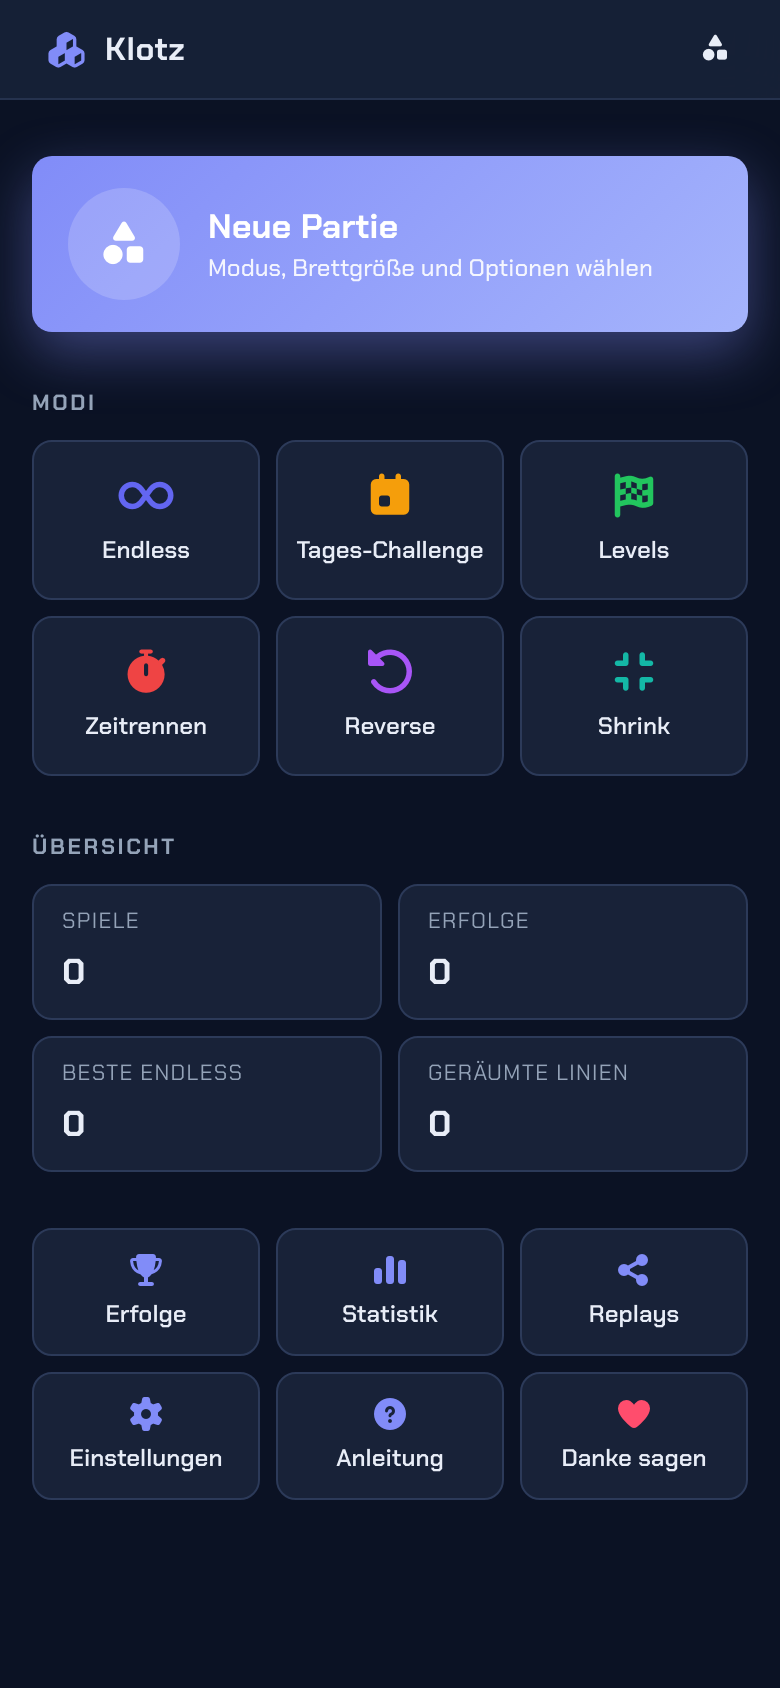
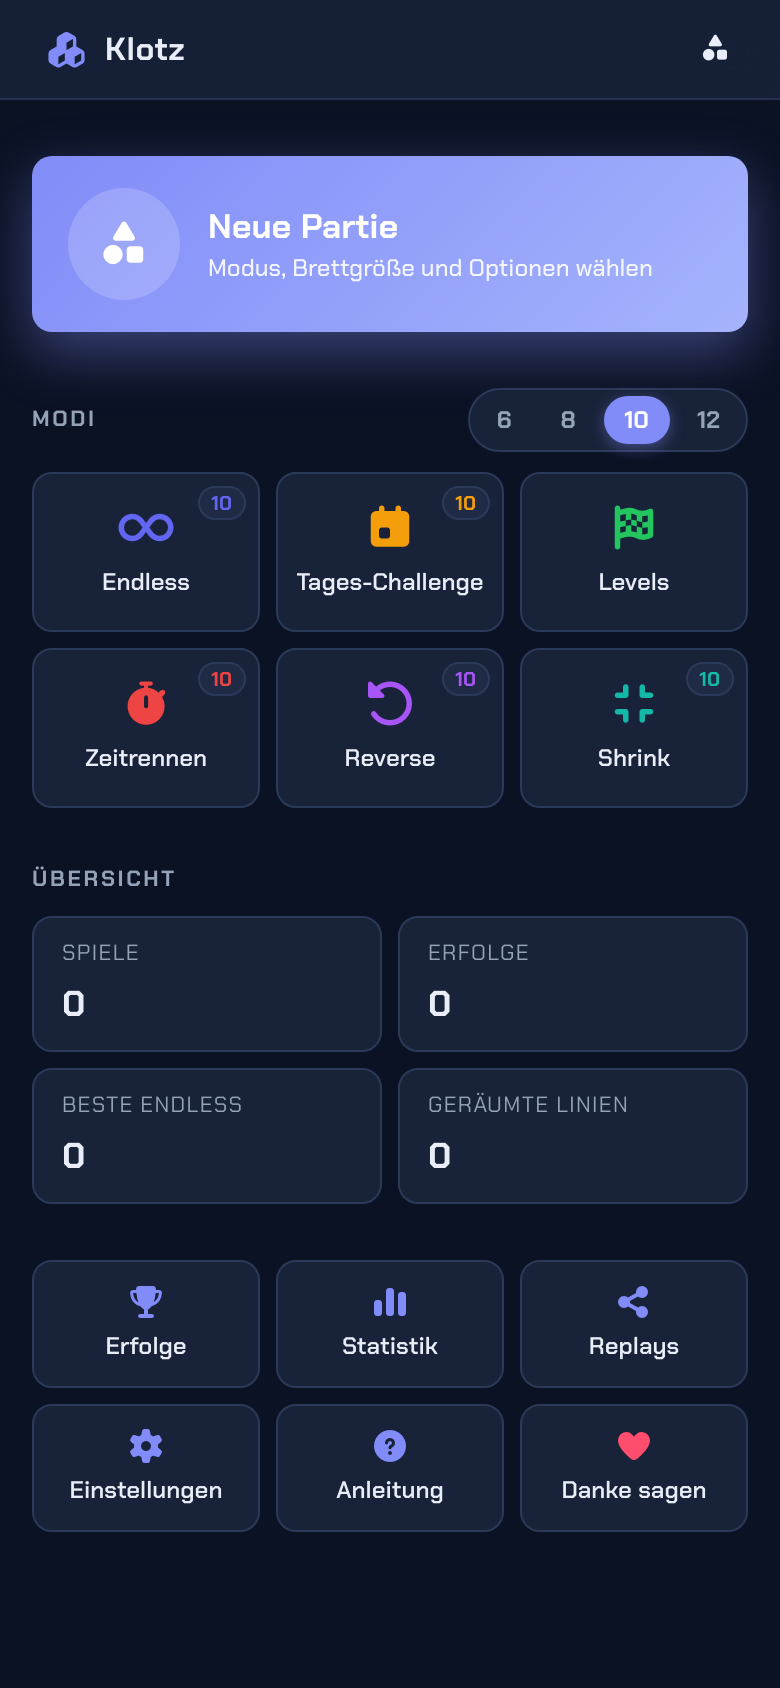
feat: Brettgroessen-Auswahl direkt im Hauptmenue
- Pillenleiste 6 / 8 / 10 / 12 oben rechts neben den Modi -- ein
  Klick aktualisiert sofort settings.boardSize
- Modi-Kacheln zeigen die aktuelle Groesse als kleinen Tag in
  der oberen rechten Ecke (Levels ausgenommen, hat fixe Groesse)
- Modus-Klick navigiert mit expliziter Groesse, damit ein Wechsel
  von z.B. 8x8 auf 10x10 nicht mehr stillschweigend verschluckt wird
- routeToPath haengt die Groesse jetzt immer als Suffix an, wenn
  sie explizit gesetzt wurde (auch fuer 10) -- die alte
  Optimierung kollidierte mit dem sizeOk-Check
- sizeOk vergleicht nun gegen die TATSAECHLICHE Brettgroesse der
  laufenden Partie (game.state.boardSize), nicht gegen die
  Settings, die schon vorab aktualisiert wurden

Version 0.2.0

diff --git a/src/lib/ui/MainMenu.svelte b/src/lib/ui/MainMenu.svelte
@@ -1,9 +1,10 @@
 <script lang="ts">
   import { game } from '../stores/game.svelte';
   import { stats } from '../stores/stats.svelte';
+  import { settings } from '../stores/settings.svelte';
   import { router } from '../router.svelte';
   import { MODES } from '../game/modes';
-  import type { GameMode } from '../game/types';
+  import type { BoardSize, GameMode } from '../game/types';
 
   type Props = {
     onStartNew: () => void;
@@ -15,6 +16,16 @@
   const lastMode = $derived(game.state.mode);
 
   const modeOrder: GameMode[] = ['endless', 'daily', 'level', 'timed', 'reverse', 'shrink'];
+  const sizes: BoardSize[] = [6, 8, 10, 12];
+  const activeSize = $derived(settings.value.boardSize);
+
+  function pickSize(s: BoardSize) {
+    void settings.update({ boardSize: s });
+  }
+
+  function isFlexible(mode: GameMode): boolean {
+    return mode !== 'level';
+  }
 </script>
 
 <section class="menu">
@@ -45,7 +56,23 @@
   </div>
 
   <section class="modes" aria-label="Spielmodi">
-    <h2>Modi</h2>
+    <header class="modes-head">
+      <h2>Modi</h2>
+      <div class="size-pills" role="radiogroup" aria-label="Brettgröße">
+        {#each sizes as s}
+          <button
+            type="button"
+            role="radio"
+            class="size-pill"
+            class:active={activeSize === s}
+            aria-checked={activeSize === s}
+            onclick={() => pickSize(s)}
+          >
+            {s}
+          </button>
+        {/each}
+      </div>
+    </header>
     <div class="mode-grid">
       {#each modeOrder as id}
         {@const cfg = MODES[id]}
@@ -54,12 +81,15 @@
           class={`mode-tile mode-${id}`}
           onclick={() => {
             if (id === 'level') router.navigate({ kind: 'levels' });
-            else router.navigate({ kind: 'mode', mode: id });
+            else router.navigate({ kind: 'mode', mode: id, size: activeSize });
           }}
           aria-label={cfg.label}
         >
           <i class={`fa-solid ${cfg.icon}`}></i>
           <span>{cfg.label}</span>
+          {#if isFlexible(id)}
+            <span class="size-tag">{activeSize}</span>
+          {/if}
         </button>
       {/each}
     </div>
@@ -202,12 +232,58 @@
 
   .modes h2,
   .snapshot h2 {
-    margin: 0 0 10px;
+    margin: 0;
     font-size: 11px;
     font-weight: 700;
     text-transform: uppercase;
     letter-spacing: 0.12em;
     color: var(--text-muted);
+  }
+
+  .snapshot h2 {
+    margin: 0 0 10px;
+  }
+
+  .modes-head {
+    display: flex;
+    align-items: center;
+    justify-content: space-between;
+    gap: 8px;
+    margin-bottom: 10px;
+  }
+
+  .size-pills {
+    display: flex;
+    gap: 4px;
+    padding: 3px;
+    background: var(--surface);
+    border: 1px solid var(--border);
+    border-radius: 999px;
+  }
+
+  .size-pill {
+    min-width: 28px;
+    padding: 4px 10px;
+    border: none;
+    background: transparent;
+    color: var(--text-muted);
+    font-family: inherit;
+    font-size: 12px;
+    font-weight: 700;
+    cursor: pointer;
+    border-radius: 999px;
+    font-variant-numeric: tabular-nums;
+    transition: background var(--transition-fast), color var(--transition-fast);
+  }
+
+  .size-pill:hover {
+    color: var(--text);
+  }
+
+  .size-pill.active {
+    background: var(--accent);
+    color: white;
+    box-shadow: 0 2px 8px color-mix(in srgb, var(--accent) 40%, transparent);
   }
 
   .mode-grid {
@@ -217,6 +293,7 @@
   }
 
   .mode-tile {
+    position: relative;
     display: flex;
     flex-direction: column;
     align-items: center;
@@ -233,6 +310,20 @@
     font-weight: 600;
     transition: transform var(--transition-fast), border-color var(--transition-fast),
       box-shadow var(--transition-fast);
+  }
+
+  .mode-tile .size-tag {
+    position: absolute;
+    top: 6px;
+    right: 6px;
+    padding: 1px 6px;
+    border-radius: 999px;
+    background: var(--surface-strong);
+    color: var(--mode-color, var(--accent));
+    font-size: 10px;
+    font-weight: 800;
+    font-variant-numeric: tabular-nums;
+    border: 1px solid var(--border);
   }
 
   .mode-tile:hover {

diff --git a/src/lib/router.svelte.ts b/src/lib/router.svelte.ts
@@ -142,7 +142,10 @@ export function routeToPath(route: Route): string {
     case 'home':
       return '/';
     case 'mode':
-      return route.size && route.size !== 10
+      // Wenn explizit size übergeben wurde, immer als Suffix in die URL --
+      // sonst würde ein Wechsel von 8x8 auf 10x10 als gleiche URL landen
+      // und beim Click auf die Modi-Kachel still verschluckt werden.
+      return route.size
         ? `${MODE_PATHS[route.mode]}/${route.size}`
         : MODE_PATHS[route.mode];
     case 'levels':
@@ -150,7 +153,7 @@ export function routeToPath(route: Route): string {
     case 'level':
       return `/levels/${route.id}`;
     case 'seed':
-      return route.size && route.size !== 10
+      return route.size
         ? `/seed/${encodeURIComponent(route.raw)}/${route.size}`
         : `/seed/${encodeURIComponent(route.raw)}`;
     case 'replay': {

diff --git a/src/App.svelte b/src/App.svelte
@@ -48,8 +48,11 @@
   async function applyRouteAction() {
     const r = router.route;
     if (r.kind === 'mode') {
-      // Bereits laufende Partie im selben Modus nicht überschreiben
-      const sizeOk = !r.size || settings.value.boardSize === r.size;
+      // Bereits laufende Partie im selben Modus mit gleicher Brettgröße
+      // nicht überschreiben. Wichtig: Vergleich mit der TATSÄCHLICHEN
+      // Größe der laufenden Partie, nicht mit den Settings -- sonst
+      // würde ein Größenwechsel still verschluckt.
+      const sizeOk = !r.size || game.state.boardSize === r.size;
       if (
         game.state.mode === r.mode &&
         game.state.status === 'running' &&
